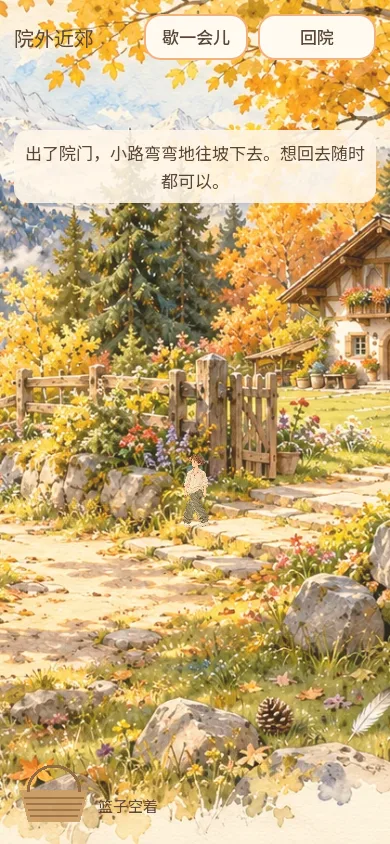
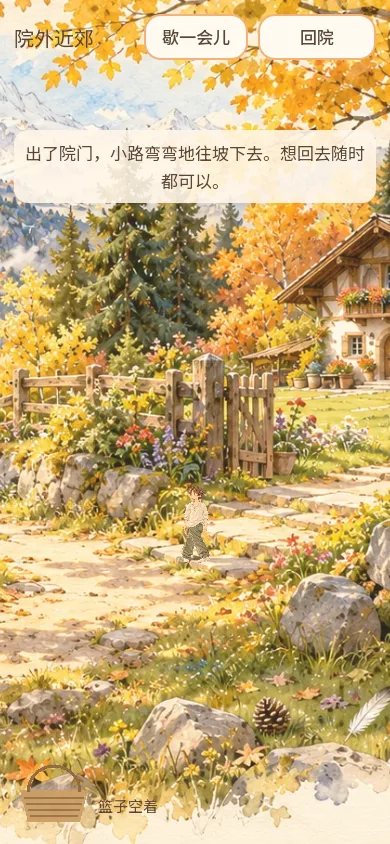
EXP-PAINTED-PATH: walk exactly the producer's candidate route; drop the undelivered upper branch (CURSOR-CLOUD)

diff --git a/docs/requirements.md b/docs/requirements.md
@@ -140,7 +140,7 @@
 | EXP-CONTRACT | P1 | 独立探索边界/快照/宿主确认/失败恢复契约，与共享状态对齐 | 纯核心已按设计稿实现（2026-10-05 授权独立推进，不再以联合冻结为前置）；依赖 #150 的项（平台持久化结果未知、物品身份/共享区）仍未冻结，归 CODEX-LEAD | `CURSOR-CLOUD` | [#151](https://github.com/narutojzm1-dot/youjia/issues/151)；[契约设计稿](architecture/exploration-module-contract.md)，与#150待共同冻结项列于其第10节；不含正式地点/物品/形式。 |
 | EXP-CORE | P1 | 形态无关核心状态机/恢复/返回，严格隔离测试；夹具不正式发布 | 进行中：用户 2026-10-05 授权 CURSOR-CLOUD 独立推进、不再以契约冻结为前置；核心与正式近郊目录随 `scripts/exploration/` 合入 main，隔离 suite 纳入 strict daily；PR176 草案由此取代 | `CURSOR-CLOUD` | [#152](https://github.com/narutojzm1-dot/youjia/issues/152)；依赖/正式内容门禁见工单。 |
 | EXP-FIRST-SLICE | P1 | 确认的一条近郊往返，空手/取消/重复提交/键鼠触屏低动效与正式发布闭环 | 进行中（用户 2026-10-05 授权独立推进）：正式游戏内往返已接入（小院左下石板路「出门走走」→ 画卷近郊小路看景/带上/放回/换 → 随时回院；SaveStore 文件提交记录探索与带回物（不等于 #150/Web 持久化验收），重启安全回院；见[接入说明](architecture/exploration-near-path-slice.md)与[体验证据](playtests/2026-10-05-exploration-near-path-slice/README.md)）；横向画卷只是过渡占位：用户已选“保留原画视角，沿路走动并自然换页”（[原画路径方向](architecture/exploration-painted-path-direction.md)），表现层已由 EXP-PAINTED-PATH 换成 02 原画沿路行走，本行交付的是外出/回院逻辑、持久化与容量；正式资源归 GAME-PRODUCER；#150 正式 Host 回执仍归 CODEX-LEAD；单趟合计最多 3 件（用户 2026-10-05 决定，同名可重复，第 4 件为「换成」）已实现，见[容量证据](playtests/2026-10-05-exploration-carry-three/README.md)；出现权重为实验参数待制作人决定 | `CURSOR-CLOUD` | [#153](https://github.com/narutojzm1-dot/youjia/issues/153)；依赖/正式内容门禁见工单；形式已定：[画卷漫步](architecture/exploration-form-options.md)（用户 2026-10-03）；首地/首物已定：近郊小路＋圆石、松果、落羽都可遇见（用户 2026-10-04，见 EXP-UNBLOCK-20261004），具体构图与资源由 GROK-BUILD #155 交付。 |
-| EXP-PAINTED-PATH | P1 | 按用户已决“保留原画视角，沿路走动并自然换页”把首片近郊表现换成 02 原画上的沿路行走：脚点在路上、人物远小近大、原画不拉伸；桌面完整构图，手机固定缩放随人物平移；键鼠/触屏可走、可停、可看、可放回、可随时回院；核心/宿主/存档不重做 | 进行中（CURSOR-CLOUD 按[执行方向](architecture/exploration-painted-path-direction.md)接收）：首版已在 `02_near_path.png` 候选上实现三条汇于岔口的可走路、四处停留点、点按沿路走、方向键沿路投影、院门口回院，见[原画沿路证据](playtests/2026-10-05-exploration-painted-path/README.md)；路径/比例/锚点为实验参数待制作人按取景核对；画内松果/落羽清底、正式小物精灵、相邻页换页（03 未交付前木桥不作出口）待 GAME-PRODUCER 资源；频率/掉率未定 | `CURSOR-CLOUD` | [#153](https://github.com/narutojzm1-dot/youjia/issues/153) / [#155](https://github.com/narutojzm1-dot/youjia/issues/155)；依赖 EXP-FIRST-SLICE（PR #322）；资源 GAME-PRODUCER |
+| EXP-PAINTED-PATH | P1 | 按用户已决“保留原画视角，沿路走动并自然换页”把首片近郊表现换成 02 原画上的沿路行走：脚点在路上、人物远小近大、原画不拉伸；桌面完整构图，手机固定缩放随人物平移；键鼠/触屏可走、可停、可看、可放回、可随时回院；核心/宿主/存档不重做 | 进行中（CURSOR-CLOUD 按[执行方向](architecture/exploration-painted-path-direction.md)接收）：首版已在 `02_near_path.png` 候选上沿制作人候选路线（near_path_anchors.candidate.json）实现单条双向可走路、四处停留点、点按沿路走、方向键沿路投影、院门口回院，见[原画沿路证据](playtests/2026-10-05-exploration-painted-path/README.md)；停留点/比例/物件位置为实验参数待制作人按取景核对；画内松果/落羽清底、正式小物精灵、相邻页换页（03 未交付前木桥不作出口）待 GAME-PRODUCER 资源；频率/掉率未定 | `CURSOR-CLOUD` | [#153](https://github.com/narutojzm1-dot/youjia/issues/153) / [#155](https://github.com/narutojzm1-dot/youjia/issues/155)；依赖 EXP-FIRST-SLICE（PR #322）；资源 GAME-PRODUCER |
 | EXP-SCROLL-PROTOTYPE | P1 | #153 队列第 1 项：test/ 下独立最小项目的画卷漫步交互原型，键盘/触屏/停下观察/相机边界/视口变化；几何占位，不接 SaveStore/Main/AudioDirector，不进正式导出 | 隔离原型已交付：PR #204 最终 head `c086b76` 经独立复审（`CURSOR-CLOUD-REVIEW-PR-204`）APPROVE 后合入（`e07bf44`），隔离测试 154 项；高 DPR 真机复测交 GAME-QA #156，竖屏取景交 #201 | `CURSOR-CLOUD` | [#199](https://github.com/narutojzm1-dot/youjia/issues/199)；CODEX-LEAD 指定；[原型说明](architecture/exploration-scroll-prototype.md)；数值为实验参数，不冻结；只证明隔离交互，不是正式功能。 |
 | EXP-RETURN-ADAPTER | P1 | #153 队列第 2 项：模拟小院与假 Host 下 `request_return` 后先使院外输入/相机/连接失效再开放院内；unknown/迟到确认/明确失败都可在院内移动且不显示虚假已保存 | 隔离适配已交付：PR #207 最终 head `a2e0043` 经独立复审（`CURSOR-CLOUD-REVIEWER-200`）APPROVE 后合入（`2e33d50`），隔离测试 150 项、13 个变异均被门禁拦下；该原型仍按 PR #176 固定 SHA `e2a6d70` 运行时取出核心（正式核心现已在 `scripts/exploration/`）；真实宿主与 H2/H3/H4 仍归 CODEX-LEAD | `CURSOR-CLOUD` | [#200](https://github.com/narutojzm1-dot/youjia/issues/200)；[开工评论](https://github.com/narutojzm1-dot/youjia/issues/200#issuecomment-5976367738)；沿用 #156 Q10/Q16/Q17；引用 PR #176 核心须注明依赖分支，不证明耐久保存或强退恢复。 |
 | EXP-FIRST-EXPERIENCE | P1 | #153 队列第 3 项：停下看景、空手中途返回、带一个占位物中途返回三种体验研究，首片节奏/构图需求与资源接口交接包 | 隔离研究切片已交付：[PR #210](https://github.com/narutojzm1-dot/youjia/pull/210) 最终 head `be60a64` 经独立复审（`CURSOR-CLOUD-REVIEWER-201`）APPROVE 后合入（`f5ca6f3`），隔离测试 261 项；[研究说明](architecture/exploration-first-experience.md)含节奏/构图需求、资源接口表、地点/物件候选与 6 条待决项；首地/物件种类已由用户确认；正式构图/资源待 #155；正式接入沿用现有 SaveStore 文件提交（#153，不等于 #150/Web 持久化验收） | `CURSOR-CLOUD` | [#201](https://github.com/narutojzm1-dot/youjia/issues/201)；[开工评论](https://github.com/narutojzm1-dot/youjia/issues/201#issuecomment-5976771165)；含 GAME-PRODUCER 补充的横竖屏同一停留点取景比较与「走近—松手观察—选择／不选择—中途回院」连续操作检查；与 GROK-BUILD #155 交接，地点/物件种类已决，不再重复征求；画面/资源规格交专业审阅。 |

diff --git a/docs/playtests/2026-10-05-exploration-painted-path/README.md b/docs/playtests/2026-10-05-exploration-painted-path/README.md
@@ -1,7 +1,7 @@
 # 首片近郊：原画沿路行走（EXP-PAINTED-PATH）
 
 - Agent-ID：CURSOR-CLOUD · #153 / #155 · 依据[原画路径方向](../../architecture/exploration-painted-path-direction.md)
-- 运行方式：真实 `main.tscn`，本机渲染器（非 headless），全程触屏事件驱动：开始假期 → 点小院石板路尽头 → 行动按钮「出门走走」→ 点画中溪声近处的路面 → 人物沿路经岔口走过去 → 停下看看 → 带上 → 接着走 → 点松树下的路面 → 停下看看 → 回院。
+- 运行方式：真实 `main.tscn`，本机渲染器（非 headless），全程触屏事件驱动：开始假期 → 点小院石板路尽头 → 行动按钮「出门走走」→ 点画中溪声近处的路面 → 人物沿路走过去 → 停下看看 → 带上 → 接着走 → 点坡路草边的路面 → 停下看看 → 带上 → 回院。可走路线是制作人候选 `near_path_anchors.candidate.json` 的原样折线。
 - 命令：`YOUJIA_CAPTURE_DIR=<dir> godot --path . --resolution 1280x720 --script tools/capture_exploration_slice.gd`（另跑 390x844）。种子随机，所以两次遇到的东西不同。
 - 这是本机渲染截图，不是手机真机，也不是 Web 发布验收。
 
@@ -10,20 +10,20 @@
 | 出门：人物站在院门口石阶上，桌面完整构图 | [native-1280-03-scroll-start.webp](native-1280-03-scroll-start.webp) | [native-390-03-scroll-start.webp](native-390-03-scroll-start.webp) |
 | 点按后沿路走（竖屏随人物平移，缩放不变） | [native-1280-04-walking.webp](native-1280-04-walking.webp) | [native-390-04-walking.webp](native-390-04-walking.webp) |
 | 溪声近处停下看：人物在坡路上，东西就在脚边 | [native-1280-06-brook-look.webp](native-1280-06-brook-look.webp) | [native-390-06-brook-look.webp](native-390-06-brook-look.webp) |
-| 松树下停下看（这趟这里没有东西） | [native-1280-08-shade-look.webp](native-1280-08-shade-look.webp) | [native-390-08-shade-look.webp](native-390-08-shade-look.webp) |
+| 坡路草边停下看：松果，篮子里已有圆石 | [native-1280-08-shade-look.webp](native-1280-08-shade-look.webp) | [native-390-08-shade-look.webp](native-390-08-shade-look.webp) |
 | 回院：只有提交成功才说收好了 | [native-1280-10-yard-back.webp](native-1280-10-yard-back.webp) | [native-390-10-yard-back.webp](native-390-10-yard-back.webp) |
 
-日志：[1280](native-1280-capture-log.txt) 带回圆石，提示「回到院里了。圆石收好了。」；[390](native-390-capture-log.txt) 带回落羽。两次都在点按后沿路到达 (983.8, 771.3)，也就是溪声近处在坡路上的停留点。
+日志：[1280](native-1280-capture-log.txt) 与 [390](native-390-capture-log.txt) 都带回圆石和松果，提示「回到院里了。圆石、松果都收好了。」；两次都在点按后沿路到达 (923.0, 778.7)，也就是溪声近处的停留点。
 
 ## 看得出来的
 
 - 原画按 1:1 铺底、等比缩放，没有拉伸或重复拼接。人物脚点落在画中道路上，远处（院门）小、近处（坡路下方）大。
 - 桌面完整展示构图。竖屏手机用一档固定缩放随人物平移，人物、正在看的东西和右上「回院」始终可见。停下看不变焦。
-- 木桥和溪水是画面左侧的地标，从松树下望得见，但不是出口（03 页还没交付）。
+- 木桥和溪水是画面左侧的地标，不是出口（03 页还没交付）；左上小路与木桥之间制作人未交付连接，所以不走。前景终点也不是出口。
 
 ## 仍未覆盖或待交付
 
 - 画内已有的松果和落羽（右下前景）还在底图上，可拿的小物没放在它们上面，但它们看起来像能捡。清底/分层资源待制作人。
-- 可走路线、停留点、物件锚点和人物比例都是按这张候选画校准的实验参数，待制作人按实际取景核对。
+- 停留点、物件位置和人物比例是 Cloud 按这张候选画校准的实验参数（制作人坐标包里为 null/留空），待制作人按实际取景核对；人物资源 `SequenceResident`（`assets/holiday/characters/resident_walk_authored_v1`），脚点即精灵脚底中心，比例由脚点 y 在 0.75（院门台阶下 y=565）到 1.35（前景 y=845）之间线性插值。
 - 没有前景遮挡层；天气不改变画面；正式小物精灵和相邻页换页待后续。
 - 方向键沿路走、低动效、暂停、回院在 `test/exploration_slice_suite.gd` 中验证，本次截图只走了触屏。

diff --git a/docs/decisions.md b/docs/decisions.md
@@ -1049,4 +1049,4 @@ CODEX-LEAD复现：现有7类setter在失败前改内存，后续无关保存会
 
 ### 2026-10-05 首片近郊换成原画沿路行走（CURSOR-CLOUD，#153 / #155，EXP-PAINTED-PATH）
 
-按用户“保留原画视角，沿路走动并自然换页”及制作人[执行方向](architecture/exploration-painted-path-direction.md)实现首版：表现层改用 `02_near_path.png` 候选原画（运行时副本 `assets/holiday/exploration/near_path_02.webp`，1:1 不拉伸不拼接），人物脚点只在三条汇于岔口的画中道路上（院门石阶、往左上通到小松树下望见木桥溪水的小路、往画面下方的坡路），远小近大；方向键沿路投影、触屏/鼠标点哪里就沿路走到最近的路面；桌面完整构图，手机一档固定缩放随人物平移，停下看不变焦；在院门口继续往院里走即回院。四处停留点 id 不变（核心目录与存档不动），地名按画面改为院门外/松树下/溪声近处/小路坡下。木桥只是地标：03 未交付前不摆出口。路径、比例、锚点为按画面校准的实验参数，待制作人核对；画内已有松果/落羽未清底（可拿小物不放在其上，带走不留副本），正式小物精灵、相邻页换页、天气变化与前景遮挡待后续。证据见[原画沿路证据](playtests/2026-10-05-exploration-painted-path/README.md)。
+按用户“保留原画视角，沿路走动并自然换页”及制作人[执行方向](architecture/exploration-painted-path-direction.md)实现首版：表现层改用 `02_near_path.png` 候选原画（运行时副本 `assets/holiday/exploration/near_path_02.webp`，1:1 不拉伸不拼接），人物脚点只在制作人候选路线（`art/concepts/producer_world_20261005/near_path_anchors.candidate.json` 的 `gate_to_foreground_candidate`，从院门台阶下沿土路弯到前景、在纸面留白前停住）上，远小近大；左上小路与木桥之间制作人未交付连接，不走；方向键沿路投影、触屏/鼠标点哪里就沿路走到最近的路面；桌面完整构图，手机一档固定缩放随人物平移，停下看不变焦；在院门口继续往院里走即回院。四处停留点 id 不变（核心目录与存档不动），地名按画面改为院门外/坡路草边/溪声近处/小路坡下；前景终点不是出口。木桥只是地标：03 未交付前不摆出口。路线用制作人候选原样折线；停留点、人物比例、物件位置为 Cloud 校准的实验参数（制作人包中为 null/留空），待制作人核对；画内已有松果/落羽未清底（可拿小物不放在其上，带走不留副本），正式小物精灵、相邻页换页、天气变化与前景遮挡待后续。证据见[原画沿路证据](playtests/2026-10-05-exploration-painted-path/README.md)。

diff --git a/docs/game-design.md b/docs/game-design.md
@@ -269,7 +269,7 @@
 
 授权范围以 [AGENTS.md](../AGENTS.md)（#312）与[台账](decisions.md)为准。首片目标：小院门前小路出门 → 画卷漫步近郊小路 → 停下看景、可带圆石/松果/落羽，单趟合计最多3件，也可空手 → 随时回院、外出途中重启安全回院且已带的东西照常收下。画面先用可替换占位；探索写入使用现有 SaveStore 文件提交，不等于 #150/Web 持久化验收。单趟最多3件已获用户确认；出现频率、提篮造型等未决项为实验参数。各分片原画尚未入仓，单页 16:9 难以支撑多屏漫步，横卷或单页串联已交用户选择、制作人接续资源（#155）。
 
-首片实现口径（2026-10-05，#153）：出口在小院左下石板路通到画外处；画卷里提篮常伴、带上的东西画在篮中；单趟合计最多 3 件（用户决定，同名可重复；满了再遇到第 4 件是「换成」，最早带上的那件留回原处）；回院文案「已回院」与「收好了」分开。表现已按用户“保留原画视角，沿路走动”换成 02 候选原画上的沿路行走（EXP-PAINTED-PATH）：桌面完整构图、手机固定缩放随人物平移，点按路面沿路走过去；03 未交付前木桥只是地标不是出口。以上数值为实验参数，不是已批准规格。带回物暂只记入存档，院内展示另议。
+首片实现口径（2026-10-05，#153）：出口在小院左下石板路通到画外处；画卷里提篮常伴、带上的东西画在篮中；单趟合计最多 3 件（用户决定，同名可重复；满了再遇到第 4 件是「换成」，最早带上的那件留回原处）；回院文案「已回院」与「收好了」分开。表现已按用户“保留原画视角，沿路走动”换成 02 候选原画上的沿路行走（EXP-PAINTED-PATH）：桌面完整构图、手机固定缩放随人物平移，点按路面沿路走过去；路线沿制作人候选坐标；03 未交付前木桥只是地标不是出口。以上数值为实验参数，不是已批准规格。带回物暂只记入存档，院内展示另议。
 
 
 ## 2026-10-05 用户确认首片携带上限
